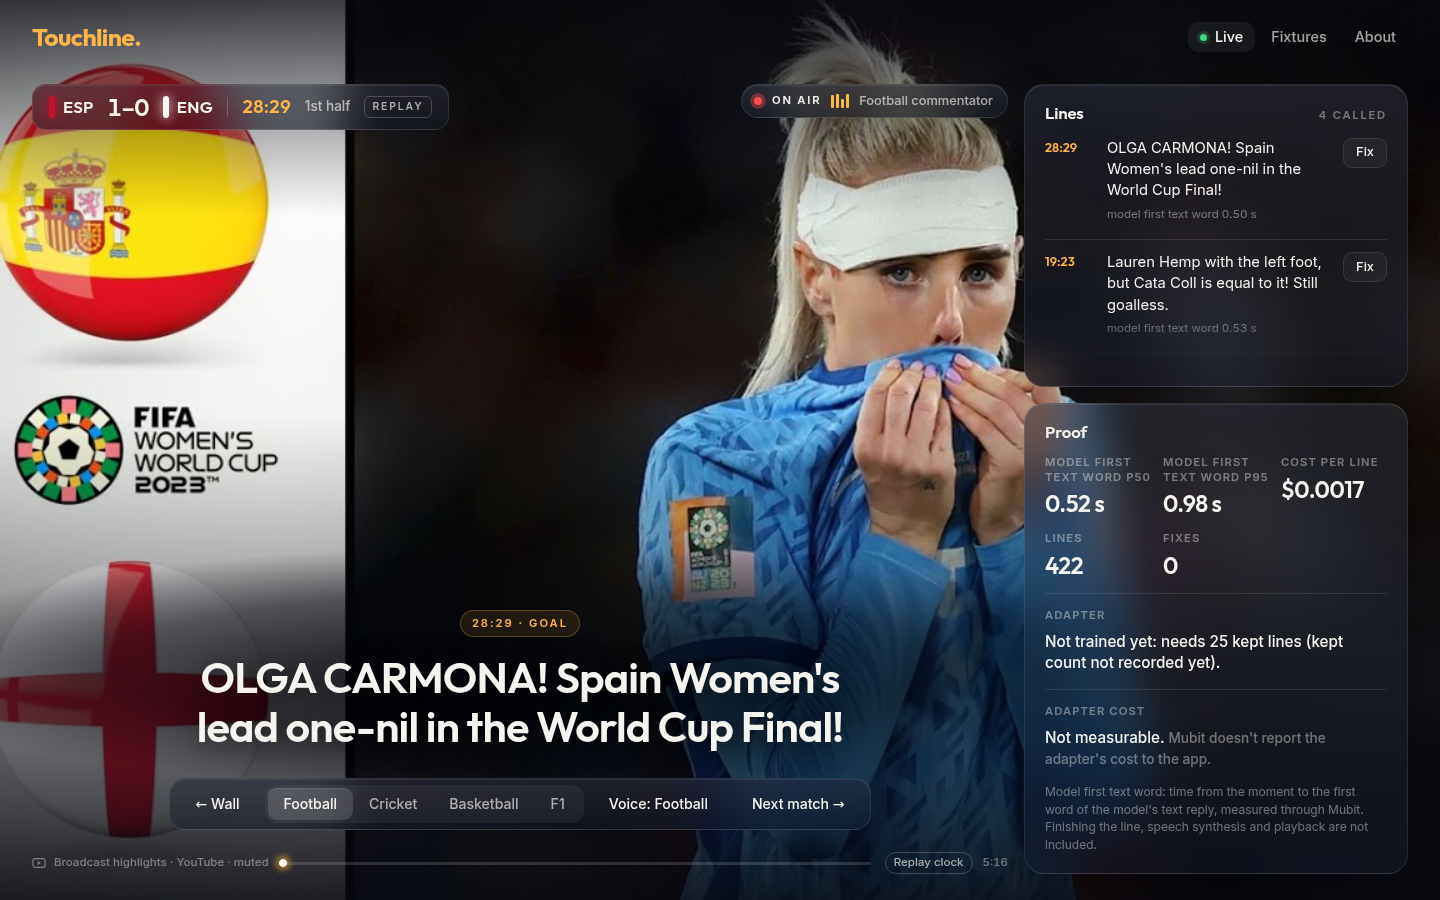
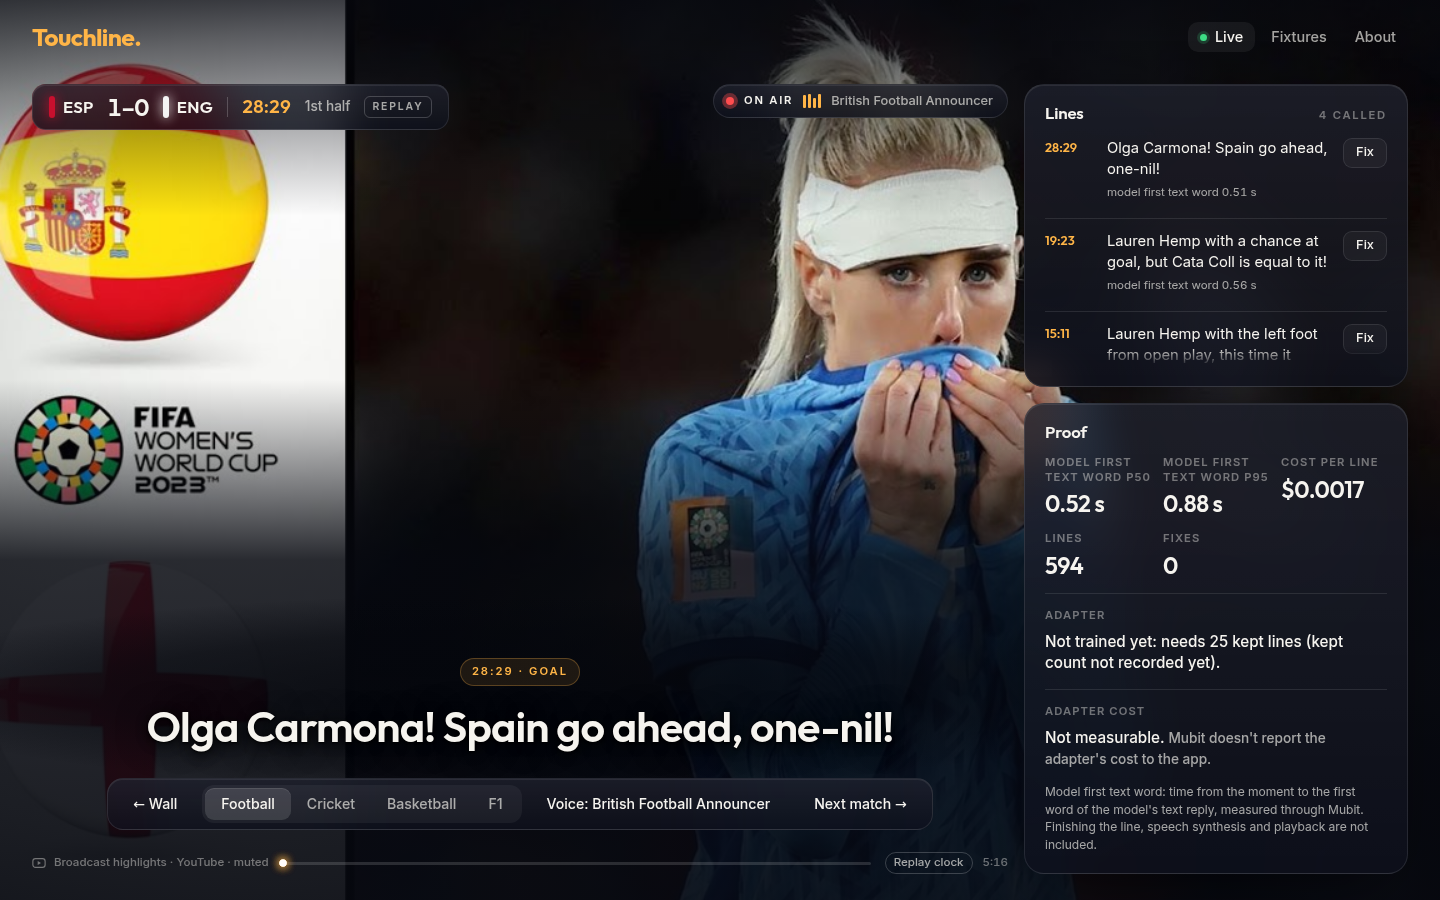
README: retake live-goal.png after #80 (Spain, not Spain Women's) (#21)
Shot the same way on the deployed page (revision 00024, b62d57b): headless
Chrome, the video's thumbnail standing in for YouTube. The alt text now
matches the new numbers. Drops the retake note from docs/demo.md.

Refs #21

diff --git a/README.md b/README.md
@@ -16,7 +16,7 @@
 
 <img src="docs/img/wall.png" alt="The deployed home page, the match wall: the heading Tap a match to hear it called over six tiles, each a match with its sport, title, date and Tap to hear it called: Messi v Mbappé, Spain v England, India v Pakistan, Kobe's 81 v Toronto, Jordan's last shot and Hamilton at Silverstone." width="100%">
 
-<img src="docs/img/live-goal.png" alt="The deployed live page during the Women's World Cup final replay. Top left, the score bar reads ESP 1-0 ENG, 28:29, 1st half, REPLAY. A red ON AIR pill names the football commentator. In the lower third, the moment tag 28:29 GOAL sits above the large subtitle: OLGA CARMONA! Spain Women's lead one-nil in the World Cup Final! Under it, a dock with Wall, the four sports, Voice and Next match, and the replay clock at 5:16. On the right, the Lines card shows the goal line and an earlier save, each with a Fix button and its model first-text-word time, and the Proof card shows first text word p50 0.52 s and p95 0.98 s, $0.0017 a line, 422 lines, 0 fixes, and the adapter as not trained yet." width="100%">
+<img src="docs/img/live-goal.png" alt="The deployed live page during the Women's World Cup final replay. Top left, the score bar reads ESP 1-0 ENG, 28:29, 1st half, REPLAY. A red ON AIR pill names the British Football Announcer. In the lower third, the moment tag 28:29 GOAL sits above the large subtitle: Olga Carmona! Spain go ahead, one-nil! Under it, a dock with Wall, the four sports, Voice and Next match, and the replay clock at 5:16. On the right, the Lines card shows the goal line and an earlier save, each with a Fix button and its model first-text-word time, and the Proof card shows first text word p50 0.52 s and p95 0.88 s, $0.0017 a line, 594 lines, 0 fixes, and the adapter as not trained yet." width="100%">
 
 <sub>The deployed page on 24 October 2026, captured in headless Chrome: the match wall, then a tap into
 Spain v England with Olga Carmona's goal being called. YouTube wouldn't play in the headless browser,

diff --git a/docs/demo.md b/docs/demo.md
@@ -123,9 +123,6 @@ main and the total time. Check in particular:
 - the voice changes when the sport changes;
 - a fix shows as Fixed and the proof panel's fix count goes up by one.
 
-Retake the README's live-goal.png once #80 is deployed: it still shows "Spain Women's", which #80
-corrects.
-
 ### Headless check, 2026-10-24 about 00:15 UTC
 
 Each step was checked on the deployed URL (main at 42f73cc, the wall live) in headless Chrome on our
